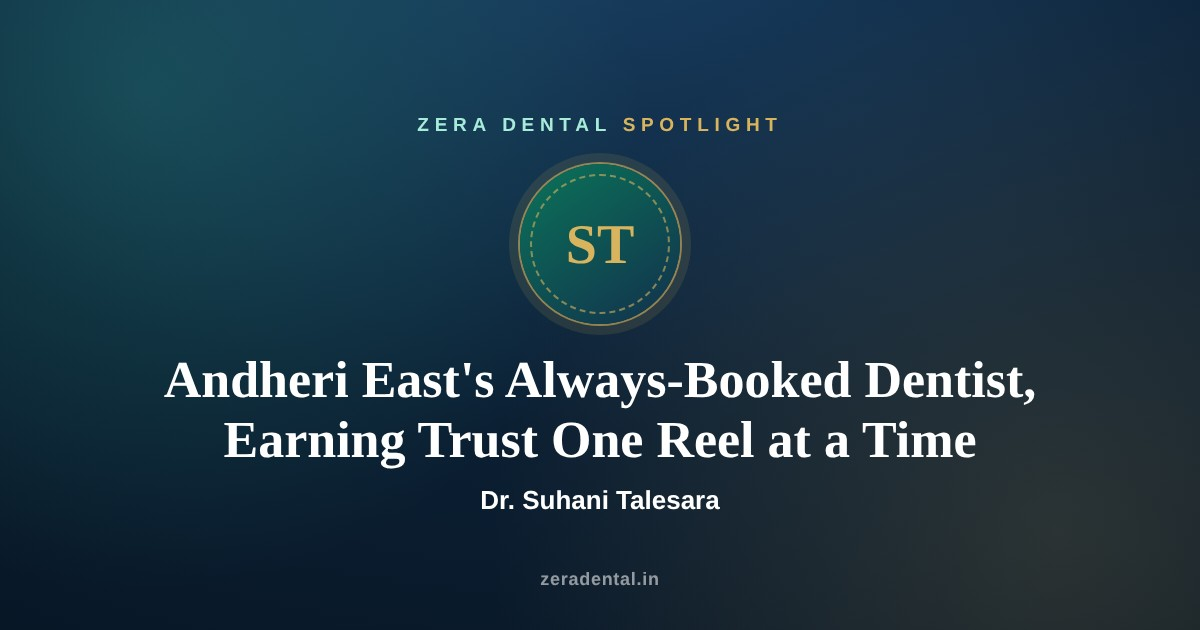
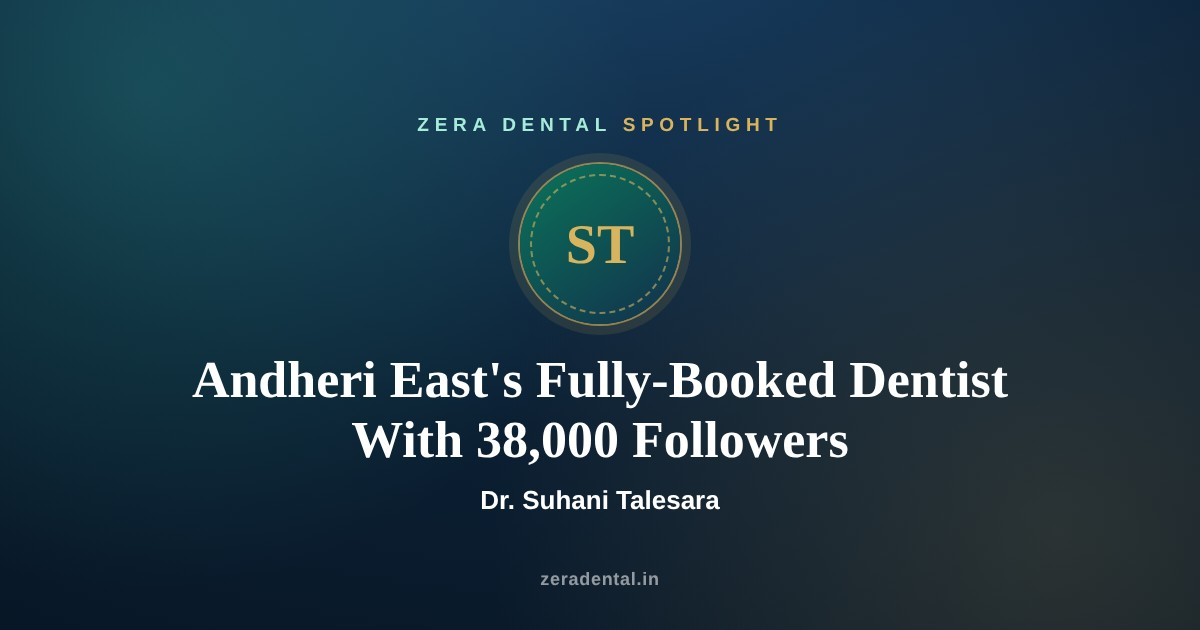
Rewrite Spotlight 005 copy and fix 2-column IG embed layout

Changed region(s): [[0.1233, 0.573, 0.8633, 0.6333], [0.185, 0.6635, 0.8325, 0.754]]

diff --git a/public/spotlight/dr-suhani-talesara-mumbai.html b/public/spotlight/dr-suhani-talesara-mumbai.html
@@ -4,18 +4,18 @@
 <meta charset="utf-8">
 <meta name="viewport" content="width=device-width, initial-scale=1">
 <title>Dr. Suhani Talesara — Featured by Zera Dental</title>
-<meta name="description" content="Andheri East&#x27;s Always-Booked Dentist, Earning Trust One Reel at a Time — Dr. Suhani Talesara, Dr. Dentist, Andheri East, Mumbai. Featured by Zera Dental.">
+<meta name="description" content="Andheri East&#x27;s Fully-Booked Dentist With 38,000 Followers — Dr. Suhani Talesara, “Dr. Dentist”, Andheri East, Mumbai. Featured by Zera Dental.">
 <link rel="canonical" href="https://zeradental.in/spotlight/dr-suhani-talesara-mumbai.html">
-<meta property="og:title" content="Dr. Suhani Talesara — Andheri East&#x27;s Always-Booked Dentist, Earning Trust One Reel at a Time">
-<meta property="og:description" content="Andheri East&#x27;s Always-Booked Dentist, Earning Trust One Reel at a Time — Dr. Suhani Talesara, Dr. Dentist, Andheri East, Mumbai. Featured by Zera Dental.">
+<meta property="og:title" content="Dr. Suhani Talesara — Andheri East&#x27;s Fully-Booked Dentist With 38,000 Followers">
+<meta property="og:description" content="Andheri East&#x27;s Fully-Booked Dentist With 38,000 Followers — Dr. Suhani Talesara, “Dr. Dentist”, Andheri East, Mumbai. Featured by Zera Dental.">
 <meta property="og:type" content="profile">
 <meta property="og:url" content="https://zeradental.in/spotlight/dr-suhani-talesara-mumbai.html">
 <meta property="og:image" content="https://zeradental.in/spotlight/dr-suhani-talesara-mumbai-og.jpg">
 <meta property="og:image:width" content="1200">
 <meta property="og:image:height" content="630">
 <meta name="twitter:card" content="summary_large_image">
-<meta name="twitter:title" content="Dr. Suhani Talesara — Andheri East&#x27;s Always-Booked Dentist, Earning Trust One Reel at a Time">
-<meta name="twitter:description" content="Andheri East&#x27;s Always-Booked Dentist, Earning Trust One Reel at a Time — Dr. Suhani Talesara, Dr. Dentist, Andheri East, Mumbai. Featured by Zera Dental.">
+<meta name="twitter:title" content="Dr. Suhani Talesara — Andheri East&#x27;s Fully-Booked Dentist With 38,000 Followers">
+<meta name="twitter:description" content="Andheri East&#x27;s Fully-Booked Dentist With 38,000 Followers — Dr. Suhani Talesara, “Dr. Dentist”, Andheri East, Mumbai. Featured by Zera Dental.">
 <meta name="twitter:image" content="https://zeradental.in/spotlight/dr-suhani-talesara-mumbai-og.jpg">
 <link rel="preconnect" href="https://fonts.googleapis.com">
 <link href="https://fonts.googleapis.com/css2?family=Plus+Jakarta+Sans:wght@400;500;600;700;800&family=Fraunces:opsz,wght@9..144,400;9..144,500;9..144,600;9..144,700,9..144,900&display=swap" rel="stylesheet">
@@ -197,8 +197,8 @@
   <div class="masthead"><span class="rule"></span>ZERA DENTAL SPOTLIGHT <span class="issue">· ISSUE 005</span><span class="rule"></span></div>
   <div class="medallion"><span>ST</span></div>
   
-  <h1 class="display">Andheri East&#x27;s Always-Booked Dentist, Earning Trust One Reel at a Time</h1>
-  <p class="name">Dr. Suhani Talesara <span class="clinic-name">· Dr. Dentist</span></p>
+  <h1 class="display">Andheri East&#x27;s Fully-Booked Dentist With 38,000 Followers</h1>
+  <p class="name">Dr. Suhani Talesara <span class="clinic-name">· “Dr. Dentist”</span></p>
   <p class="meta">Andheri East, Mumbai · <a href="https://www.instagram.com/dr.suhani_talesara/" target="_blank" rel="noopener noreferrer">@dr.suhani_talesara</a></p>
   <div class="stats"><div class="stat"><strong>★ 4.9</strong><span>Google rating</span></div><div class="stat"><strong>110</strong><span>reviews</span></div></div>
 </div></section>
@@ -210,19 +210,7 @@
       </div>
       <p class="ig-fallback-text">See the post that started it — <strong>@dr.suhani_talesara</strong></p>
       <span class="ig-fallback-cta">Tap to view on Instagram <span class="arrow">→</span></span>
-    </a></blockquote></div><div class="ig-grid"><div class="ig-card"><blockquote class="instagram-media" data-instgrm-permalink="https://www.instagram.com/reel/DfArk35zePa/" data-instgrm-version="14" style="background:#FFF; border:0; border-radius:16px; box-shadow:0 1px 2px rgba(11,31,51,.05),0 8px 24px -12px rgba(11,31,51,.15); margin:0; max-width:100%; min-width:280px; padding:0; width:100%;"><a class="ig-fallback" href="https://www.instagram.com/reel/DfArk35zePa/" target="_blank" rel="noopener noreferrer">
-      <div class="ig-fallback-glyph">
-        <svg viewBox="0 0 24 24" width="24" height="24" fill="none" stroke="currentColor" stroke-width="1.6"><rect x="2" y="2" width="20" height="20" rx="6"/><circle cx="12" cy="12" r="4.5"/><circle cx="17.2" cy="6.8" r="1.1" fill="currentColor" stroke="none"/></svg>
-      </div>
-      <p class="ig-fallback-text"><strong>@dr.suhani_talesara</strong></p>
-      <span class="ig-fallback-cta">View on Instagram <span class="arrow">→</span></span>
-    </a></blockquote></div><div class="ig-card"><blockquote class="instagram-media" data-instgrm-permalink="https://www.instagram.com/reel/De6HwaIgMXt/" data-instgrm-version="14" style="background:#FFF; border:0; border-radius:16px; box-shadow:0 1px 2px rgba(11,31,51,.05),0 8px 24px -12px rgba(11,31,51,.15); margin:0; max-width:100%; min-width:280px; padding:0; width:100%;"><a class="ig-fallback" href="https://www.instagram.com/reel/De6HwaIgMXt/" target="_blank" rel="noopener noreferrer">
-      <div class="ig-fallback-glyph">
-        <svg viewBox="0 0 24 24" width="24" height="24" fill="none" stroke="currentColor" stroke-width="1.6"><rect x="2" y="2" width="20" height="20" rx="6"/><circle cx="12" cy="12" r="4.5"/><circle cx="17.2" cy="6.8" r="1.1" fill="currentColor" stroke="none"/></svg>
-      </div>
-      <p class="ig-fallback-text"><strong>@dr.suhani_talesara</strong></p>
-      <span class="ig-fallback-cta">View on Instagram <span class="arrow">→</span></span>
-    </a></blockquote></div><div class="ig-card"><blockquote class="instagram-media" data-instgrm-permalink="https://www.instagram.com/reel/De0mq_HKfe5/" data-instgrm-version="14" style="background:#FFF; border:0; border-radius:16px; box-shadow:0 1px 2px rgba(11,31,51,.05),0 8px 24px -12px rgba(11,31,51,.15); margin:0; max-width:100%; min-width:280px; padding:0; width:100%;"><a class="ig-fallback" href="https://www.instagram.com/reel/De0mq_HKfe5/" target="_blank" rel="noopener noreferrer">
+    </a></blockquote></div><div class="ig-grid"><div class="ig-card"><blockquote class="instagram-media" data-instgrm-permalink="https://www.instagram.com/reel/DUF-TwIjEmr/" data-instgrm-version="14" style="background:#FFF; border:0; border-radius:16px; box-shadow:0 1px 2px rgba(11,31,51,.05),0 8px 24px -12px rgba(11,31,51,.15); margin:0; max-width:100%; min-width:280px; padding:0; width:100%;"><a class="ig-fallback" href="https://www.instagram.com/reel/DUF-TwIjEmr/" target="_blank" rel="noopener noreferrer">
       <div class="ig-fallback-glyph">
         <svg viewBox="0 0 24 24" width="24" height="24" fill="none" stroke="currentColor" stroke-width="1.6"><rect x="2" y="2" width="20" height="20" rx="6"/><circle cx="12" cy="12" r="4.5"/><circle cx="17.2" cy="6.8" r="1.1" fill="currentColor" stroke="none"/></svg>
       </div>
@@ -231,7 +219,7 @@
     </a></blockquote></div></div></div></section>
 
 <div class="wrap">
-<section class="feature-section"><p class="eyebrow">THE PRACTICE</p><h2>A clinic that stays booked</h2><div class="prose"><p>At Dr. Dentist, tucked into Durganagar MMRDA just off JVLR in Andheri East, Dr. Suhani Talesara has built a 4.9-star practice on Google from 110 reviews and counting.</p><p>The reviews don&#x27;t read like a transaction. One patient opens with how finding &quot;a good dentist, especially in a time of need... in a city like Mumbai, is a total nightmare&quot; — and then explains why this clinic was the exception. Another simply writes: &quot;Thank you for making my root canal treatment so smooth and comfortable.&quot; Patient after patient mentions her by first name — Dr. Suhani — which is rarer than it sounds.</p></div></section><section class="feature-section"><p class="eyebrow">THE AUDIENCE</p><h2>Built one reel at a time</h2><div class="prose"><p>Off the clinic floor, Dr. Talesara runs @dr.suhani_talesara — a 38,600-follower account mixing patient transformations, Zoom-whitening reveals, implant and braces education, and the occasional reel just for fun.</p><p>1,225 posts in, her bio still reads like a working dentist&#x27;s, not an influencer&#x27;s: &quot;DM for appointments &amp; collabs.&quot; That combination — a real following built alongside a real, fully-booked practice — is exactly what Zera Dental looks for in a Spotlight feature.</p></div></section><section class="feature-section"><p class="eyebrow">WHY WE&#x27;RE FEATURING HER</p><h2>A packed chair and a growing following, done honestly</h2><div class="prose"><p>Zera Dental spotlights dentists doing the hard, patient-facing work — in the chair and on camera — well before anyone&#x27;s paying them to notice. Dr. Talesara&#x27;s 4.9-star rating wasn&#x27;t bought, and neither was her following.</p><p>This feature is completely free, with nothing attached, same as it is for every dentist we spotlight.</p></div></section>
+<section class="feature-section"><p class="eyebrow">THE PRACTICE</p><h2>A 4.9-star practice that&#x27;s never quiet</h2><div class="prose"><p>Dr. Suhani Talesara runs Dr. Dentist out of Durganagar MMRDA, just off JVLR in Andheri East — a small clinic with a 4.9-star reputation across 110 reviews.</p><p>Patients write in by name, not just a rating. One opens by calling it a relief to find a trustworthy dentist in a city like Mumbai; another simply thanks her for a root canal that didn&#x27;t hurt. That&#x27;s rarer than it sounds.</p></div></section><section class="feature-section"><p class="eyebrow">WHY WE&#x27;RE WATCHING</p><h2>38,600 followers, and still booking her own appointments</h2><div class="prose"><p>Off the clinic floor, @dr.suhani_talesara is one of the largest dental accounts Zera Dental has come across in this series — patient transformations, Zoom-whitening reveals, and the odd reel about being more than just &quot;a dentist,&quot; 1,225 posts deep.</p><p>Her bio still reads like a working dentist&#x27;s, not an influencer&#x27;s: &quot;DM for appointments &amp; collabs.&quot; That combination — a real following built alongside a real, fully-booked practice — is exactly what this series looks for.</p></div></section>
 <section class="quote-section"><span class="quote-mark">&ldquo;</span><blockquote>Dr Suhani is a fantastic dentist, both highly knowledgeable and friendly, which immediately puts you at ease.</blockquote>
 <cite>— Sheetal Singh, Google review</cite></section>
 
@@ -247,15 +235,15 @@
   <p class="eyebrow eyebrow-center">Spread the word</p>
   <h2>Enjoyed this feature? Share it in one tap ✨</h2>
   <p class="share-sub">The more this gets shared, the more it helps Talesara — and anyone else who sees it.</p>
-  <button type="button" id="nativeShareBtn" class="btn btn-share" data-url="https://zeradental.in/spotlight/dr-suhani-talesara-mumbai.html" data-title="Dr. Suhani Talesara — Andheri East&#x27;s Always-Booked Dentist, Earning Trust One Reel at a Time" data-text="Andheri East&#x27;s Always-Booked Dentist, Earning Trust One Reel at a Time — meet Dr. Suhani Talesara, featured in Zera Dental Spotlight.">
+  <button type="button" id="nativeShareBtn" class="btn btn-share" data-url="https://zeradental.in/spotlight/dr-suhani-talesara-mumbai.html" data-title="Dr. Suhani Talesara — Andheri East&#x27;s Fully-Booked Dentist With 38,000 Followers" data-text="Andheri East&#x27;s Fully-Booked Dentist With 38,000 Followers — meet Dr. Suhani Talesara, featured in Zera Dental Spotlight.">
     <svg viewBox="0 0 24 24" width="18" height="18" fill="none" stroke="currentColor" stroke-width="2" stroke-linecap="round" stroke-linejoin="round"><circle cx="18" cy="5" r="3"/><circle cx="6" cy="12" r="3"/><circle cx="18" cy="19" r="3"/><line x1="8.59" y1="13.51" x2="15.42" y2="17.49"/><line x1="15.41" y1="6.51" x2="8.59" y2="10.49"/></svg>
     Share This Feature
   </button>
   <div class="share-icons">
-    <a class="share-icon" href="https://wa.me/?text=Andheri%20East%27s%20Always-Booked%20Dentist%2C%20Earning%20Trust%20One%20Reel%20at%20a%20Time%20%E2%80%94%20meet%20Dr.%20Suhani%20Talesara%2C%20featured%20in%20Zera%20Dental%20Spotlight.%20https%3A%2F%2Fzeradental.in%2Fspotlight%2Fdr-suhani-talesara-mumbai.html" target="_blank" rel="noopener noreferrer" aria-label="Share on WhatsApp" title="Share on WhatsApp">
+    <a class="share-icon" href="https://wa.me/?text=Andheri%20East%27s%20Fully-Booked%20Dentist%20With%2038%2C000%20Followers%20%E2%80%94%20meet%20Dr.%20Suhani%20Talesara%2C%20featured%20in%20Zera%20Dental%20Spotlight.%20https%3A%2F%2Fzeradental.in%2Fspotlight%2Fdr-suhani-talesara-mumbai.html" target="_blank" rel="noopener noreferrer" aria-label="Share on WhatsApp" title="Share on WhatsApp">
       <svg viewBox="0 0 24 24" width="22" height="22" fill="currentColor"><path d="M12.04 2c-5.52 0-10 4.48-10 10 0 1.77.46 3.5 1.33 5.02L2 22l5.12-1.34A9.96 9.96 0 0 0 12.04 22c5.52 0 10-4.48 10-10s-4.48-10-10-10Zm0 18.2c-1.6 0-3.16-.43-4.52-1.24l-.32-.19-3.03.8.81-2.95-.21-.31A8.17 8.17 0 0 1 3.84 12c0-4.53 3.68-8.2 8.2-8.2s8.2 3.68 8.2 8.2-3.67 8.2-8.2 8.2Zm4.5-6.14c-.25-.12-1.46-.72-1.68-.8-.23-.08-.39-.12-.56.12-.17.25-.64.8-.78.96-.14.17-.29.19-.53.06-.25-.12-1.04-.38-1.98-1.21-.73-.65-1.23-1.46-1.37-1.7-.14-.25-.02-.38.11-.5.11-.11.25-.29.37-.43.12-.14.17-.25.25-.41.08-.17.04-.31-.02-.43-.06-.12-.56-1.35-.77-1.85-.2-.48-.41-.42-.56-.43h-.48c-.17 0-.43.06-.66.31-.23.25-.86.84-.86 2.05s.88 2.38 1 2.55c.12.17 1.73 2.64 4.19 3.7.59.25 1.04.4 1.4.52.59.19 1.12.16 1.54.1.47-.07 1.46-.6 1.66-1.17.21-.58.21-1.08.14-1.18-.06-.1-.23-.16-.48-.28Z"/></svg>
     </a>
-    <a class="share-icon" href="https://twitter.com/intent/tweet?text=Andheri%20East%27s%20Always-Booked%20Dentist%2C%20Earning%20Trust%20One%20Reel%20at%20a%20Time%20%E2%80%94%20meet%20Dr.%20Suhani%20Talesara%2C%20featured%20in%20Zera%20Dental%20Spotlight.&url=https%3A%2F%2Fzeradental.in%2Fspotlight%2Fdr-suhani-talesara-mumbai.html" target="_blank" rel="noopener noreferrer" aria-label="Share on X / Twitter" title="Share on X">
+    <a class="share-icon" href="https://twitter.com/intent/tweet?text=Andheri%20East%27s%20Fully-Booked%20Dentist%20With%2038%2C000%20Followers%20%E2%80%94%20meet%20Dr.%20Suhani%20Talesara%2C%20featured%20in%20Zera%20Dental%20Spotlight.&url=https%3A%2F%2Fzeradental.in%2Fspotlight%2Fdr-suhani-talesara-mumbai.html" target="_blank" rel="noopener noreferrer" aria-label="Share on X / Twitter" title="Share on X">
       <svg viewBox="0 0 24 24" width="19" height="19" fill="currentColor"><path d="M18.9 2H22l-7.6 8.68L23.3 22h-6.9l-5.4-6.7L4.8 22H1.7l8.1-9.3L1 2h7.1l4.9 6.1L18.9 2Zm-1.2 18h1.9L7.4 4H5.3l12.4 16Z"/></svg>
     </a>
     <a class="share-icon" href="https://www.facebook.com/sharer/sharer.php?u=https%3A%2F%2Fzeradental.in%2Fspotlight%2Fdr-suhani-talesara-mumbai.html" target="_blank" rel="noopener noreferrer" aria-label="Share on Facebook" title="Share on Facebook">

diff --git a/public/spotlight/index.html b/public/spotlight/index.html
@@ -120,8 +120,8 @@
         <span class="issue-no">ISSUE 005</span>
         <div class="issue-medallion"><span>ST</span></div>
       </div>
-      <h3>Andheri East&#x27;s Always-Booked Dentist, Earning Trust One Reel at a Time</h3>
-      <p class="issue-name">Dr. Suhani Talesara <span class="issue-clinic">· Dr. Dentist</span></p>
+      <h3>Andheri East&#x27;s Fully-Booked Dentist With 38,000 Followers</h3>
+      <p class="issue-name">Dr. Suhani Talesara <span class="issue-clinic">· &#x201c;Dr. Dentist&#x201d;</span></p>
       <p class="issue-place">Andheri East, Mumbai</p>
       <p class="issue-stats"><span class="mini-stat">★ 4.9</span> · <span class="mini-stat">110 reviews</span></p>
       <span class="issue-cta">Read the feature <span class="arrow">→</span></span>
